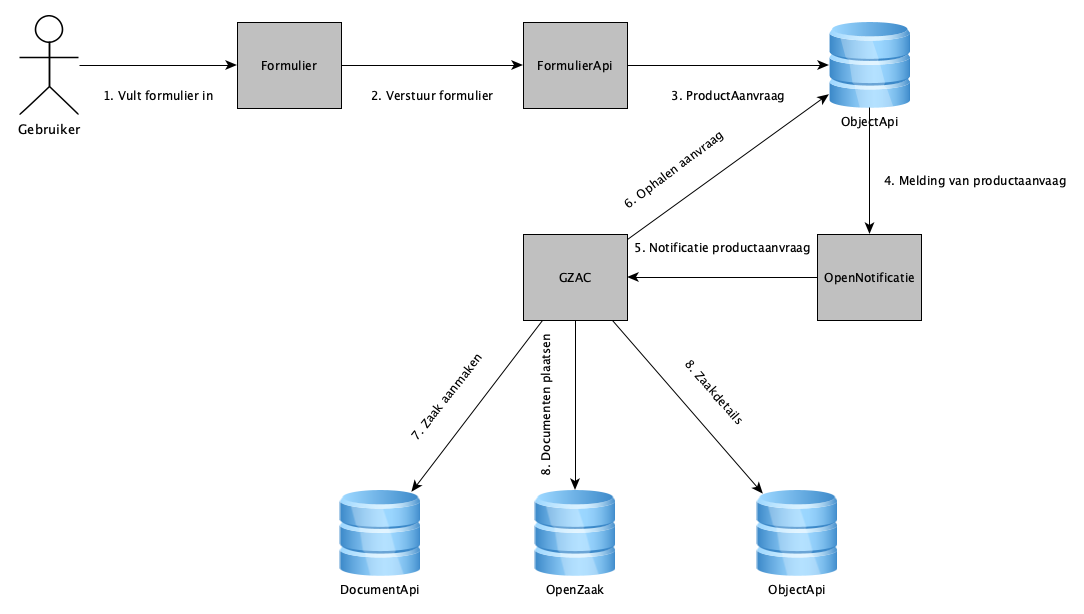
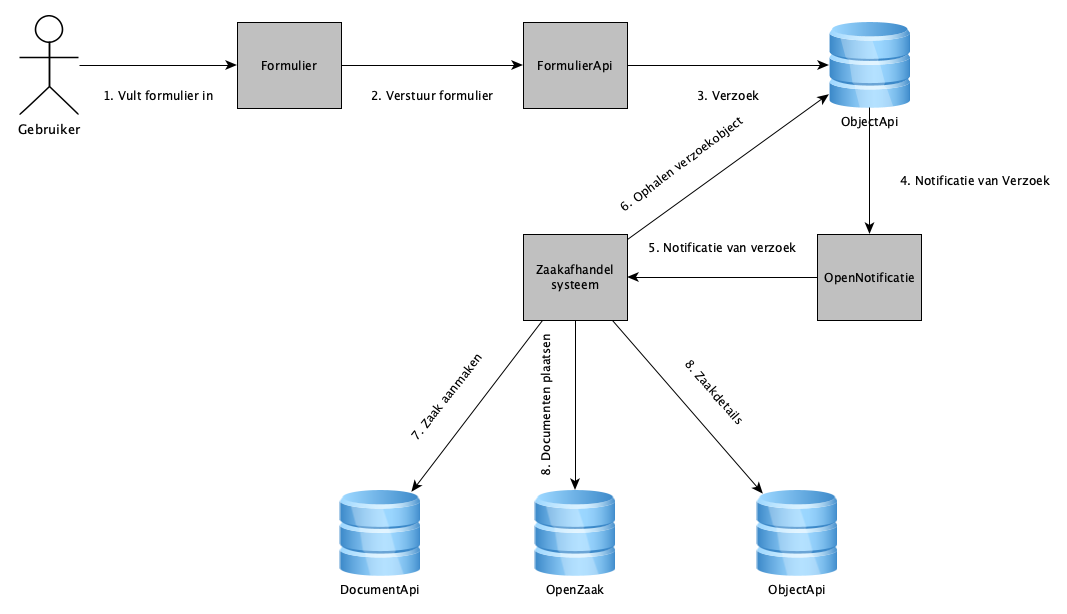
no message

diff --git a/architectuur/productaanvraag.rst b/architectuur/productaanvraag.rst
@@ -8,51 +8,29 @@ Product Aanvraag
 .. toctree::
    :maxdepth: 2
 
-Er zijn 3 varianten van productaanvragen:
-
-#. Productaanvraag in open formulieren; afhandeling in GZAC
-#. Productaanvraag in open formulieren; afhandeling niet in GZAC
+Hieronder staat het productaanvraag / verzoek patroon uitgewerkt
 
 *********
-1. Productaanvraag in open formulieren; afhandeling in GZAC
+1. Verzoek
 *********
-Elke productaanvraag ziet er hetzelfde uit. Dit is niet afhankelijk van welk formuliersysteem de aanvraag indiend of welk zaakafhandelsysteem de zaak afhandeld. De componenten die een rol vervullen kunnen veranderen maar de communicatie tussen de nodes moet gelijk blijven. Hieronder een schematische weergave van deze productaanvraag.
 
 .. image:: /images/yed/productaanvraag.png
-   :alt: Schematische weergave van een productaanvraag waarbij de aanvraag wordt afgehandeld in GZAC
+   :alt: Schematische weergave van een verzoek
 
 
 #. Een aanvraag begint altijd met een gebruiker die een formulier invult. Dit kan zowel een burger zijn die in de portal een formulier invult als een medewerker die in de zaakafhandelapplicatie een zaak aanmaakt.
 #. Dit ingevulde formulier wordt verstuurd naar de FormulierenApi, deze controleert bijvoorbeeld of de (voor)ingevulde waardes juist zijn en of de gebruiker voldoende rechten heeft om het formulier in te sturen.
-#. De FormulierenApi plaatst het ingevulde Formulier in de ObjectApi. We noemen dit een productaanvraag. 
-#. De ObjectApi plaatst van deze productaanvraag een notificatie op OpenNotificatie.
-#. OpenNotificatie is een messagebroker. Ieder component dat geabboneerd is op dit type notificatie krijgt een notificatie. GZAC is hierop geabbonneerd en krijgt dus een seintje
-#. GZAC (Generiek ZaakAfhandel Component) haalt vervolgens de productaanvraag op uit de ObjectApi.
-#. Vervolgens maakt GZAC de zaak aan in OpenZaak
+#. De FormulierenApi plaatst het ingevulde Formulier in de ObjectApi. We noemen dit een verzoek. 
+#. De ObjectApi plaatst een notificatie op OpenNotificatie dat een VerzoekObject is aangemaakt
+#. OpenNotificatie is een messagebroker. Ieder component dat geabboneerd is op dit type notificatie krijgt een notificatie. Het zaaksysteem is hierop geabbonneerd en krijgt dus een notificatie
+#. Het zaaksysteem haalt vervolgens het verzoek op uit de ObjectApi.
+#. Vervolgens maakt het zaaksysteem de zaak aan in OpenZaak
 #. En plaatst eventuele documenten in de DocumentenApi
-#. En plaatst de zaakdetails in de objectApi
+#. En plaatst eventuele zaakdetails in de objectApi
+#. En verwijderd het verzoekobject uit de objectApi
 
-
-.. image:: /images/ssd/createzaakpwa.png
-   :alt: Schematische weergave van een productaanvraag waarbij de aanvraag wordt afgehandeld in GZAC
 
 .. image:: /images/ssd/verzoeken.png
-   :alt: Schematische weergave van een productaanvraag waarbij de aanvraag wordt afgehandeld in GZAC
-
-
-*********
-1. Productaanvraag in open formulieren; afhandeling niet in GZAC
-*********
-
-.. image:: /images/yed/productaanvraag2.png
-   :alt: Schematische weergave van een productaanvraag
-
-#. Een aanvraag begint altijd met een gebruiker die een formulier invult. Dit kan zowel een burger zijn die in de portal een formulier invult als een medewerker die in de zaakafhandelapplicatie een zaak aanmaakt.
-#. Dit ingevulde formulier wordt verstuurd naar de FormulierenApi, deze controleert bijvoorbeeld of de (voor)ingevulde waardes juist zijn en of de gebruiker voldoende rechten heeft om het formulier in te sturen.
-#. De FormulierenApi plaatst het ingevulde Formulier in de ObjectApi. We noemen dit een productaanvraag. 
-#. De ObjectApi plaatst van deze productaanvraag een notificatie op OpenNotificatie.
-#. OpenNotificatie is een messagebus. Ieder component dat geabboneerd is op dit type notificatie krijgt een notificatie. De applicatie die de aanvraag moet afhandelen kan zich hierop abboneren en de aanvraag verder afhandelen.
-
-
+   :alt: SequenceDiagram
 
 
